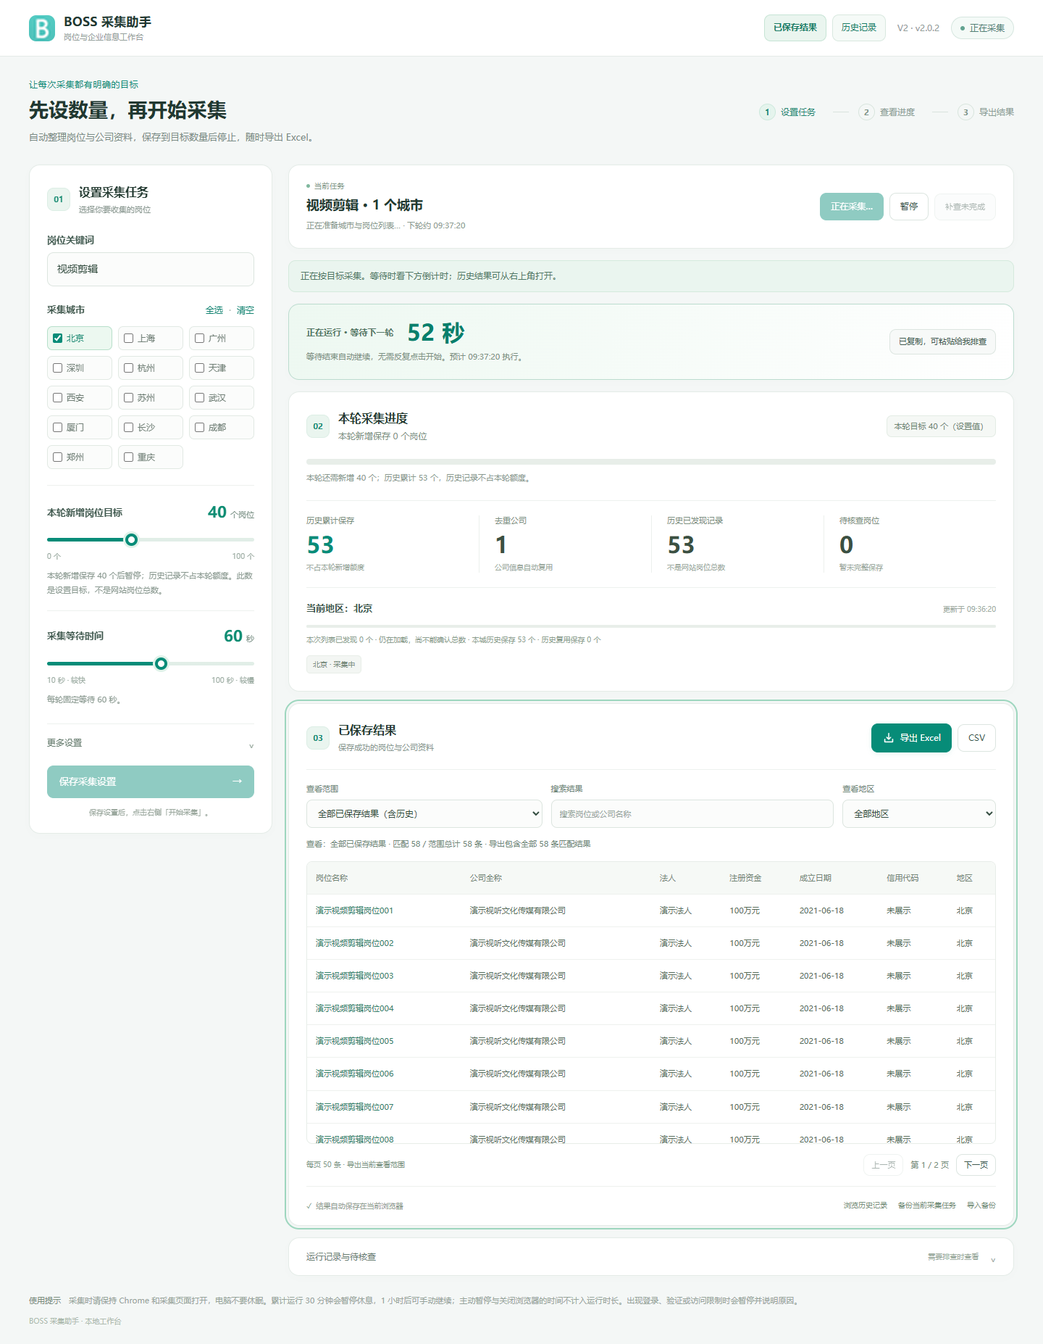
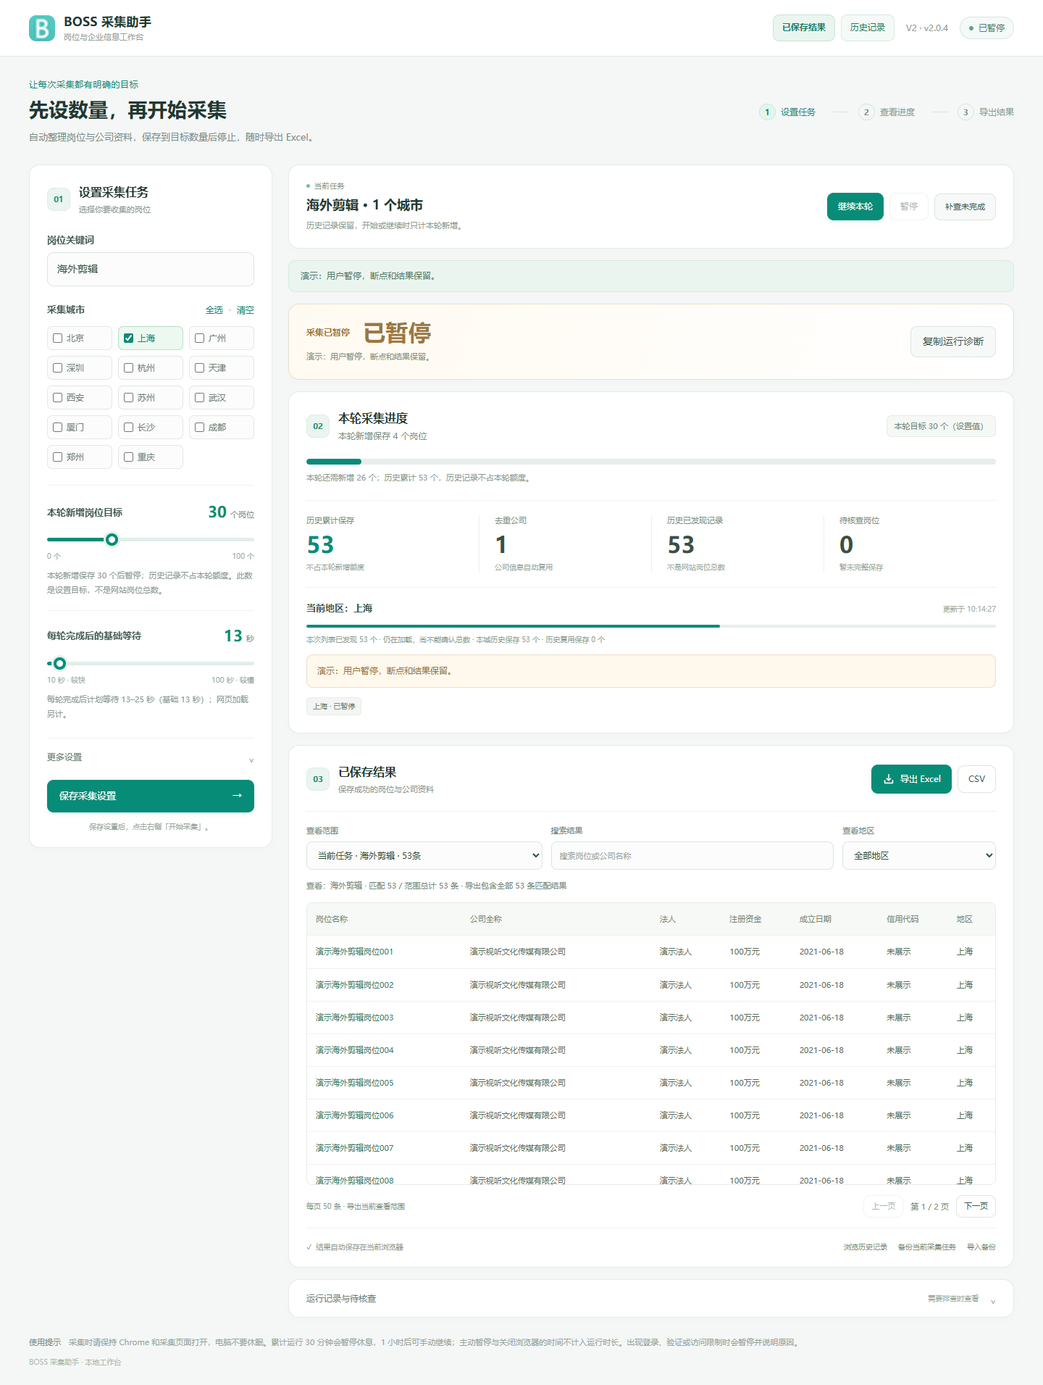
fix: wait for company navigation and honor configured pacing (v2.0.4)

diff --git a/background.js b/background.js
@@ -37,7 +37,9 @@ async function tickDue(taskId,due){
 async function armDue(s){
  clearTimeout(shortTimer);const now=Date.now(),remaining=s.nextRunAt-now,id=s.id,due=s.nextRunAt;
  // Recreating a wakeup must never move the persisted due time forward.
- await chrome.alarms.create(ALARM,{when:Math.max(due,now+30000)});
+ // Unpacked extensions support sub-30-second alarms. Keep the user's exact
+ // deadline; Chrome itself may still deliver late after sleep or throttling.
+ await chrome.alarms.create(ALARM,{when:due});
  if(remaining<30000){shortTimer=setTimeout(()=>exclusive(()=>tickDue(id,due)).catch(()=>{}),Math.max(0,remaining));shortTimer?.unref?.();}
 }
 async function schedule(s){if(s.status==='running'){
@@ -70,18 +72,31 @@ async function pacing(start=true){
 async function pageMessage(id,message,timeout=18000){
  let timer;try{return await Promise.race([chrome.tabs.sendMessage(id,message),new Promise((_,reject)=>{timer=setTimeout(()=>reject(Error('页面脚本响应超时')),timeout);})]);}finally{clearTimeout(timer);}
 }
+function companyPageState(tab,expectedUrl){
+ const matches=value=>{try{return canonical(value,'company')===expectedUrl;}catch{return false;}};
+ // Tab.url is the last committed document. A newly created tab can still have
+ // an empty/about:blank URL while pendingUrl already identifies our company.
+ // A pending destination elsewhere must never inherit the old page's identity.
+ if(tab?.pendingUrl&&!matches(tab.pendingUrl))return 'changed';
+ if(matches(tab?.url))return 'ready';
+ if((!tab?.url||tab.url==='about:blank')&&matches(tab?.pendingUrl))return 'pending';
+ // Before Chrome exposes pendingUrl, a new owned tab can be blank. This is
+ // only permission to wait, never permission to read, close or reload it.
+ if(tab&&(!tab.url||tab.url==='about:blank')&&!tab.pendingUrl)return 'unknown';
+ return 'changed';
+}
 async function send(id,action,args={}){
- const verifyCompany=async()=>{
-  if(action!=='company'||!args.expectedUrl)return;
-  const tab=await chrome.tabs.get(id).catch(()=>null);
-  let current;try{current=canonical(tab?.url,'company');}catch{}
-  if(current!==args.expectedUrl)throw Error('公司详情页地址发生变化，尚未保存该页信息，请检查页面后继续');
+ const verifyCompany=async tab=>{
+  if(action!=='company'||!args.expectedUrl)return true;
+  const state=companyPageState(tab||await chrome.tabs.get(id).catch(()=>null),args.expectedUrl);
+  if(state==='changed')throw Error('公司详情页地址发生变化，尚未保存该页信息，请检查页面后继续');
+  return state==='ready';
  };
  const stage={city:'切换城市',list:'读取岗位列表',scroll:'加载更多岗位',company:'读取公司详情'}[action]||action;let last='页面尚未加载',refreshed=false;
  for(let n=0;n<24;n++){
   const tab=await chrome.tabs.get(id).catch(()=>null);
   if(!tab){last='采集标签页已关闭';break;}
-  await verifyCompany();
+  if(!await verifyCompany(tab)){last='公司页正在打开，等待目标地址加载';await new Promise(r=>setTimeout(r,500));continue;}
   if(tab.status==='loading'){
    // Fonts, ads or images may keep Chrome "loading" after the usable DOM is
    // ready. Probe our listener rather than waiting for unrelated resources.
@@ -89,6 +104,7 @@ async function send(id,action,args={}){
    if(probe?.ok===false&&probe.error)throw Error(probe.error);
    if(!probe?.ok||!probe.data?.ready){last='页面仍在加载';await new Promise(r=>setTimeout(r,500));continue;}
   }
+  if(action==='company'&&!await verifyCompany()){last='公司页正在重新加载';await new Promise(r=>setTimeout(r,500));continue;}
   let r;try{r=await pageMessage(id,{channel:'boss-collector',action,...args});}catch(e){
    last=String(e.message||e).replace(/https?:\/\/\S+/g,'[网页地址]').slice(0,200);
    if(last==='页面脚本响应超时')break;
@@ -102,7 +118,7 @@ async function send(id,action,args={}){
    await new Promise(r=>setTimeout(r,500));continue;
   }
   if(!r?.ok)throw Error(r?.error||'页面没有返回有效数据');
-  await verifyCompany();
+  if(!await verifyCompany()){last='公司页正在重新加载，尚未保存';await new Promise(r=>setTimeout(r,500));continue;}
   if(action==='company'&&r.data?.sourceUrl&&r.data.sourceUrl!==args.expectedUrl)throw Error('公司信息来源链接不一致，尚未保存该页信息');
   return r.data;
  }
@@ -116,7 +132,7 @@ async function recoverConnection(s,error){
  const expected=company?s.detailTab?.url:null;
  if(tab){
   const u=new URL(tab.url||'https://www.zhipin.com/');
-  const own=company?canonical(u.href,'company')===expected:u.origin==='https://www.zhipin.com'&&/^\/web\/geek\/jobs\/?$/.test(u.pathname);
+  const own=company?['ready','pending'].includes(companyPageState(tab,expected)):u.origin==='https://www.zhipin.com'&&/^\/web\/geek\/jobs\/?$/.test(u.pathname);
   if(!own)return false;
   // Replace only the failed owned page in place; preserve queue and rows.
   await chrome.tabs.update(id,{url:company?expected:u.href,active:false});
@@ -127,14 +143,15 @@ async function recoverConnection(s,error){
  log(s,s.reason+(error.detail?'；'+error.detail:''));await save(s);await schedule(s);return true;
 }
 async function listTab(s){
- if(s.tabId){const t=await chrome.tabs.get(s.tabId).catch(()=>null);if(t?.url?.startsWith('https://www.zhipin.com/web/geek/jobs'))return t;}
+ const isList=value=>{try{const u=new URL(value);return u.origin==='https://www.zhipin.com'&&/^\/web\/geek\/jobs\/?$/.test(u.pathname);}catch{return false;}};
+ if(s.tabId){const t=await chrome.tabs.get(s.tabId).catch(()=>null);if(t&&(isList(t.url)||isList(t.pendingUrl)))return t;}
  // A dedicated inactive list prevents changing the user's existing BOSS filters.
  const t=await chrome.tabs.create({url:'https://www.zhipin.com/web/geek/jobs?query='+encodeURIComponent(s.config.keyword),active:false});s.tabId=t.id;s.phase='setup';await save(s);return t;
 }
 async function closeOwned(s){
  if(!s.detailTab)return;
  const {id,url}=s.detailTab,t=await chrome.tabs.get(id).catch(()=>null);
- if(t&&canonical(t.url,'company')!==url)throw Error('临时公司页地址发生变化，已保留页面，请检查后继续');
+ if(t&&companyPageState(t,url)!=='ready')throw Error('临时公司页地址发生变化或仍在加载，已保留页面，请检查后继续');
  if(t)await chrome.tabs.remove(id);s.detailTab=null;
 }
 async function step(){

diff --git a/dashboard.js b/dashboard.js
@@ -12,7 +12,8 @@ function sliderLabels(){
  $('target-value').textContent=String(target);$('interval-value').textContent=String(base);
  $('target-help').textContent=target===0?'0表示不启动采集；历史记录保留。':`本轮新增保存 ${target} 个后暂停；历史记录不占本轮额度。此数是设置目标，不是网站岗位总数。`;
  const upper=Math.min(100,base*2-1);
- $('interval-help').textContent=$('varied').checked?`每轮实际等待 ${base===upper?base:base+'–'+upper} 秒，访问顺序变化。`:`每轮固定等待 ${base} 秒。`;
+ $('interval-help').textContent=$('varied').checked?`每轮完成后计划等待 ${base===upper?base:base+'–'+upper} 秒（基础 ${base} 秒）；网页加载另计。`:`每轮完成后计划等待 ${base} 秒；网页加载另计。`;
+ $('active-pace').hidden=task?.status!=='running';if(task?.status==='running'){const active=configuration(task.config),upper=Math.min(100,active.interval*2-1);$('active-pace').textContent='当前运行生效：基础 '+active.interval+' 秒，'+(active.varied!==false?'计划等待 '+active.interval+'–'+upper+' 秒':'固定等待 '+active.interval+' 秒')+'。调整滑轨后需先暂停并保存，才会应用新设置。';}
  for(const id of ['target','interval']){const input=$(id);input.style.setProperty('--range-progress',100*(input.value-input.min)/(input.max-input.min)+'%');}
  if(task&&task.status!=='running')$('resume').disabled=target===0;
 }
@@ -66,13 +67,13 @@ function waitStatus(){
  if(!task){$('wait-title').textContent='等待开始';$('wait-countdown').textContent='—';$('wait-detail').textContent='设置数量和城市，点击开始采集。历史结果可在右上角直接查看。';return;}
  if(task.status!=='running'){$('wait-title').textContent=task.status==='complete'?'已确认列表结束':task.config.target===0?'尚未启动：目标为0':task.stopReason==='target'?'本轮目标已达成':'采集已暂停';$('wait-countdown').textContent=task.status==='complete'?'已结束':'已暂停';$('wait-detail').textContent=task.reason||'断点和结果已保留，可以继续采集。';return;}
  const remaining=Math.ceil(((task.nextRunAt||0)-Date.now())/1000);
- if(task.nextRunAt&&remaining>0){panel.dataset.state='waiting';$('wait-title').textContent='正在运行 · 等待下一轮';$('wait-countdown').textContent=remaining+' 秒';$('wait-detail').textContent=(task.reason?task.reason+'；':'')+'等待结束自动继续，无需反复点击开始。预计 '+new Date(task.nextRunAt).toLocaleTimeString()+' 执行。';}
+ if(task.nextRunAt&&remaining>0){panel.dataset.state='waiting';$('wait-title').textContent='正在运行 · 等待下一轮';$('wait-countdown').textContent=remaining+' 秒';$('wait-detail').textContent=(task.reason?task.reason+'；':'')+'本轮计划等待 '+(task.waitSeconds||configuration(task.config).interval)+' 秒（基础 '+configuration(task.config).interval+' 秒）。倒计时结束自动继续，预计 '+new Date(task.nextRunAt).toLocaleTimeString()+' 执行；页面加载另计。';}
  else{$('wait-title').textContent=task.waiting?'已到时间 · 正在唤醒后台':'正在采集';$('wait-countdown').textContent=task.waiting?'准备继续':'处理中';$('wait-detail').textContent=task.phase==='collect'?'正在读取公司展示的信息，完成后自动保存并安排下一轮。':task.phase==='loading'?'正在滚动加载更多岗位，已发现的记录会保留。':'正在检查岗位列表与采集队列。';}
 }
 $('diagnostics').onclick=async()=>{try{
  const s=await getState(),v=s?stats(s):null;
- const diagnostic={version:'2.0.2',capturedAt:new Date().toISOString(),status:s?.status||'none',phase:s?.phase,reason:s?.reason,target:s?.config.target,interval:s?.config.interval,waiting:s?.waiting,nextRunAt:s?.nextRunAt?new Date(s.nextRunAt).toISOString():null,lastStepAt:s?.lastStepAt?new Date(s.lastStepAt).toISOString():null,roundSaved:v?.roundSaved,totalSaved:v?.saved,pending:s?Object.values(s.jobs).filter(e=>e.status==='pending').length:0,review:v?.review,emptyListRetries:s?.emptyListRetries||0,connectionRetries:s?.connectionRetries||0};
- await navigator.clipboard.writeText(JSON.stringify(diagnostic,null,2));$('diagnostics').textContent='已复制，可粘贴给我排查';
+ const diagnostic={version:'2.0.4',capturedAt:new Date().toISOString(),status:s?.status||'none',phase:s?.phase,reason:s?.reason,target:s?.config.target,interval:s?.config.interval,waiting:s?.waiting,nextRunAt:s?.nextRunAt?new Date(s.nextRunAt).toISOString():null,lastStepAt:s?.lastStepAt?new Date(s.lastStepAt).toISOString():null,roundSaved:v?.roundSaved,totalSaved:v?.saved,pending:s?Object.values(s.jobs).filter(e=>e.status==='pending').length:0,review:v?.review,emptyListRetries:s?.emptyListRetries||0,connectionRetries:s?.connectionRetries||0};
+ await navigator.clipboard.writeText(JSON.stringify(diagnostic,null,2));$('diagnostic-feedback').hidden=false;$('diagnostic-feedback').textContent='诊断已复制。返回聊天，按 Ctrl + V 粘贴并发送。';
 }catch(e){errors(e);}};
 function draw(s,syncSettings=false){
  if(!s)return;const changed=task?.id!==s.id||syncSettings;task=s;

diff --git a/dashboard.html b/dashboard.html
@@ -14,7 +14,7 @@
         <img src="icons/boss48.png" width="36" height="36" alt="">
         <div><strong>BOSS 采集助手</strong><span>岗位与企业信息工作台</span></div>
       </a>
-      <div class="appbar-meta"><nav class="workspace-nav" aria-label="工作台快捷入口"><button id="open-results" type="button">已保存结果</button><button id="open-history" type="button">历史记录</button></nav><span class="version">V2 · v2.0.2</span><span id="status" class="status" role="status">等待开始</span></div>
+      <div class="appbar-meta"><nav class="workspace-nav" aria-label="工作台快捷入口"><button id="open-results" type="button">已保存结果</button><button id="open-history" type="button">历史记录</button></nav><span class="version">V2 · v2.0.4</span><span id="status" class="status" role="status">等待开始</span></div>
     </div>
   </header>
 
@@ -41,10 +41,11 @@
       </div>
 
       <div class="slider-field speed-field">
-        <label class="slider-heading" for="interval"><span>采集等待时间</span><span class="setting-value"><strong id="interval-value">60</strong><span>秒</span></span></label>
+        <label class="slider-heading" for="interval"><span>每轮完成后的基础等待</span><span class="setting-value"><strong id="interval-value">60</strong><span>秒</span></span></label>
         <input id="interval" type="range" min="10" max="100" step="1" value="60" aria-describedby="interval-help">
         <div class="range-endpoints"><span>10 秒 · 较快</span><span>100 秒 · 较慢</span></div>
-        <p id="interval-help" class="field-help">每次访问之间等待 60–100 秒。已保存的公司资料直接复用，减少重复访问。</p>
+        <p id="interval-help" class="field-help">每轮完成后计划等待 60–100 秒；页面加载、读取和保存另计。已保存的公司资料直接复用。</p>
+        <p id="active-pace" class="active-pace" role="status" hidden></p>
       </div>
 
       <details class="advanced">
@@ -71,7 +72,7 @@
 
       <div id="wait-panel" class="card wait-panel" data-state="paused" aria-label="当前运行状态">
         <div class="wait-copy"><span id="wait-title" class="wait-title">等待开始</span><strong id="wait-countdown" class="wait-countdown" aria-live="off">—</strong><p id="wait-detail">保存设置并开始采集后，会在这里显示下一步和剩余等待时间。</p></div>
-        <button id="diagnostics" class="quiet" type="button">复制诊断信息</button>
+        <div class="wait-actions"><button id="diagnostics" class="quiet" type="button">复制运行诊断</button><p id="diagnostic-feedback" class="diagnostic-feedback" role="status" aria-live="polite" hidden></p></div>
       </div>
 
       <div class="card goal-card">

diff --git a/dashboard.css b/dashboard.css
@@ -198,3 +198,7 @@ footer strong{font-weight:500;color:#768c7b}
 @media(prefers-reduced-motion:reduce){button,progress::-webkit-progress-value{transition:none}}
 @media(max-width:1200px){.appbar-meta{gap:10px}.workspace-nav{gap:6px}.workspace-nav button{font-size:11px;padding:8px 10px}.wait-panel{padding:18px 22px}.results-browser{grid-template-columns:minmax(135px,1fr) minmax(160px,1.2fr) minmax(100px,.65fr);gap:10px}}
 @media(max-width:700px){.appbar{height:auto;min-height:68px}.appbar-content{padding-top:13px;padding-bottom:13px;flex-wrap:wrap;row-gap:11px}.appbar-meta{width:100%;justify-content:flex-end;gap:10px;flex-wrap:wrap}.workspace-nav{margin-right:auto}.workspace-nav button{font-size:11px;padding:8px 10px}.wait-panel{padding:17px 19px;align-items:flex-start;gap:12px;flex-wrap:wrap}.wait-copy{flex:1;grid-template-columns:1fr;gap:5px}.wait-countdown{font-size:29px}.wait-copy p{grid-column:auto}.wait-panel>button{font-size:10px;padding:8px 10px}.results-browser{grid-template-columns:minmax(0,1fr) minmax(0,1fr);gap:13px 10px;margin-top:17px;padding-top:16px}.result-search{grid-row:2;grid-column:1/-1}.result-control select,.result-control input[type=search]{font-size:11px;height:38px;padding:8px 10px}.result-summary-row{align-items:flex-start;flex-wrap:wrap;gap:9px}.result-summary-row p{font-size:10px}.results-pagination{flex-wrap:wrap;gap:10px}.results-pagination .preview-note{flex-basis:100%;font-size:10px}.pagination-controls{width:100%;justify-content:space-between;gap:7px}.pagination-controls button{font-size:10px;padding:7px 10px}.results-footer{gap:10px}.utility-actions{gap:14px}.utility-actions .link{font-size:11px}.wait-panel[data-state=running] .wait-countdown{font-size:21px}}
+
+.wait-actions{display:flex;flex-direction:column;align-items:flex-end;gap:8px;flex:0 0 auto;max-width:280px}.diagnostic-feedback{margin:0;font-size:12px;line-height:1.7;color:#14786d;text-align:right}.wait-actions button{white-space:nowrap}@media(max-width:600px){.wait-actions{align-items:flex-start;max-width:100%}.diagnostic-feedback{text-align:left}}
+
+.active-pace{font-size:12px;line-height:1.7;color:#8e642b;background:#fff8ec;border:1px solid #eedfca;border-radius:8px;padding:10px 12px;margin:10px 0 0}

diff --git a/README.md b/README.md
@@ -4,9 +4,9 @@
 
 **使用顺序：下载 → 安装插件 → 登录 BOSS → 选关键词和城市 → 开始 → 导出 Excel。**
 
-当前版本：**V2（2.0.2）**。无需影刀，也不需要安装 Python 或 Node.js 才能使用。
+当前版本：**V2（2.0.4）**。无需影刀，也不需要安装 Python 或 Node.js 才能使用。
 
-**[下载 V2 修复版](https://github.com/TsNIUPI/boss-job-collector/releases/download/v2.0.2/BOSS-Collector-V2-v2.0.2.zip)** · [更新说明](https://github.com/TsNIUPI/boss-job-collector/releases/tag/v2.0.2) · [简明使用说明](使用说明.md)
+**[下载 V2 修复版](https://github.com/TsNIUPI/boss-job-collector/releases/download/v2.0.4/BOSS-Collector-V2-v2.0.4.zip)** · [更新说明](https://github.com/TsNIUPI/boss-job-collector/releases/tag/v2.0.4) · [简明使用说明](使用说明.md)
 
 ![V2 中文工作台预览](docs/workbench-v2.png)
 
@@ -18,7 +18,7 @@
 
 普通暂停、定时休息、浏览器重启和备份恢复保留本轮计数；达到目标后点击“开始新一轮”才重新从0计数。已经检查完的城市也可再次检查新岗位。调低目标到本轮已保存数以下时准备新一轮，历史记录始终保留。
 
-开启变化等待时，每轮等待从滑轨值至 `min(100, 2×滑轨值−1)` 秒；关闭后按滑轨值固定等待。比如60秒对应60–100秒，10秒对应10–19秒。网页加载、浏览器休眠可能延迟实际执行；它不是每条岗位的固定耗时。
+开启变化等待时，每轮等待从滑轨值至 `min(100, 2×滑轨值−1)` 秒；关闭后按滑轨值固定等待。比如60秒对应60–100秒，10秒对应10–19秒。等待从一轮操作完成后开始，页面加载、读取和保存耗时另计；它不是每条岗位的固定耗时。运行中拖动滑轨只修改草稿，暂停并保存后才生效，界面单独显示当前实际生效的设置。解压加载版按计划时间预约后台唤醒，不额外补到30秒；电脑休眠或浏览器调度仍可能延迟。
 
 ## 可以做什么
 
@@ -149,7 +149,7 @@
 npm test
 ```
 
-90项本地逻辑测试通过，新增真实后台模块冷启动回归：先保存3个岗位，再连续27次销毁并重建后台，按实际持久化闹钟推进至30/30；另覆盖暂停/浏览器关闭时长、空列表有限重试和历史结果只读浏览。页面读取器检查7种末尾场景，工作台联动检查分页、搜索筛选导出、倒计时和诊断。以上使用本地模拟页面与存储，没有访问真实BOSS账号，真实页面持续运行仍待现场验收。
+106项本地逻辑测试通过，新增真实后台模块冷启动回归：先保存3个岗位，再连续27次销毁并重建后台，按实际持久化闹钟推进至30/30；另覆盖暂停/浏览器关闭时长、空列表有限重试和历史结果只读浏览。新建公司页初始空地址、精确目标pendingUrl和未知初始态均有限等待，提交前不读取；真正异公司、登录或外域跳转仍拒绝保存和关闭。固定13秒、30次全冷后台与30家初始空白公司页组合链保存到30/30，所有报警预约等于持久化deadline。页面读取器检查7种末尾场景，工作台联动检查分页、搜索筛选导出、倒计时和诊断。以上使用本地模拟页面与存储，上述自动验证使用模拟页面和存储，真实账号完整持续运行结果未作确认。
 
 可选浏览器回归需安装 Playwright 和 Chrome（或将 `BOSS_PLAYWRIGHT_MODULE` 指向已有模块）：
 

diff --git a/使用说明.md b/使用说明.md
@@ -2,7 +2,7 @@
 
 ## 安装
 
-1. 在仓库的 Releases 页面下载 BOSS-Collector-V2-v2.0.2.zip，解压到固定文件夹。
+1. 在仓库的 Releases 页面下载 BOSS-Collector-V2-v2.0.4.zip，解压到固定文件夹。
 2. 在 Chrome 地址栏打开 chrome://extensions，开启右上角开发者模式。
 3. 点击加载已解压的扩展程序，选择包含 manifest.json 的文件夹。
 4. 登录 BOSS 官网，点击插件图标打开工作台。
@@ -11,7 +11,7 @@
 
 1. 填写岗位关键词并勾选城市。
 2. 拖动保存岗位数量滑轨，范围0–100，默认50。0表示不启动采集。
-3. 拖动采集等待时间滑轨，范围10–100秒，默认60；变化等待时界面显示范围。
+3. 拖动采集等待时间滑轨，范围10–100秒，默认60；变化等待时界面显示范围，例如基础13秒对应13–25秒；关闭变化后计划等待13秒。页面加载、读取和保存另计。运行中改滑轨须先暂停并保存才生效。
 4. 点击开始采集，新设置会先自动保存。
 5. 查看目标进度和运行提示，点击导出Excel获取结果。
 
@@ -30,7 +30,7 @@
 
 ## 等待和暂停怎么看
 
-等待下一轮时会显示逐秒倒计时，到期自动继续；暂停会显示原因。列表暂时为空时自动等待最多3次，持续为空则保留断点并暂停，不会当成完成。若长时间没有进度，点击“复制运行诊断”，将状态文字提供给维护人员；诊断不包含岗位、公司明细或账号凭据。
+等待下一轮时会显示逐秒倒计时，到期自动继续；暂停会显示原因。列表暂时为空时自动等待最多3次，持续为空则保留断点并暂停，不会当成完成。若长时间没有进度，点击“复制运行诊断”，返回聊天输入框按Ctrl+V粘贴并发送给维护人员；诊断不包含岗位、公司明细或账号凭据。
 
 ## 暂停与更新
 
@@ -42,6 +42,6 @@
 
 ## 验证范围
 
-本地逻辑测试覆盖前3条后连续27次冷启动仍保存到30/30、暂停计时、空列表重试和历史结果浏览；另检查列表末尾识别及工作台联动。真实BOSS账号持续运行仍需实际验收。
+106项本地逻辑测试通过，覆盖前3条后连续27次冷启动仍保存到30/30、暂停计时、空列表重试和历史结果浏览；另检查列表末尾识别及工作台联动。真实BOSS账号持续运行仍需实际验收。
 
 工具只读取页面展示的岗位与工商信息，不负责求职沟通、简历投递或联系方式采集。请遵守平台规则与权限。

diff --git a/CHANGELOG.md b/CHANGELOG.md
@@ -1,3 +1,12 @@
+# 2.0.4 公司页面导航与等待说明修复
+
+- 新建公司页尚未提交地址时，精确目标pendingUrl和空白未知态只进行有限等待，提交前不读取；读前、读后和关闭时继续检查身份，真正异公司、登录、外域或异目标pending跳转仍阻断。
+- 修复列表页刚打开、地址尚未提交时重复创建标签页的问题。
+- 后台报警按持久化计划时间预约，取消解压加载版额外补到30秒；保留短计时器与报警去重，不把到期时间重新推后。系统或浏览器调度仍可能延迟。
+- 界面区分基础等待、本轮计划等待、剩余倒计时及当前运行生效设置，说明加载耗时另计、运行中滑轨草稿须暂停保存。
+- “复制运行诊断”按钮保持名称，复制后单独提示返回聊天按Ctrl+V发送。
+- 106项本地逻辑测试通过；新增固定13秒、30次全冷后台、30家公司初始空白后提交的30/30组合回归。历史搜索分页、实际Excel导出及1440/800/390宽度界面检查通过。自动验证为本地模拟页面与存储，不作为真实账号完整30个采集验收。
+
 # 2.0.2 后台唤醒、持续采集与历史结果修复
 
 - 修复一次性闹钟唤醒后台后重新延后到期时间的问题，保留持久化执行时间，避免保存少量岗位后长期没有进度；工作台状态刷新也会检查失效调度。
